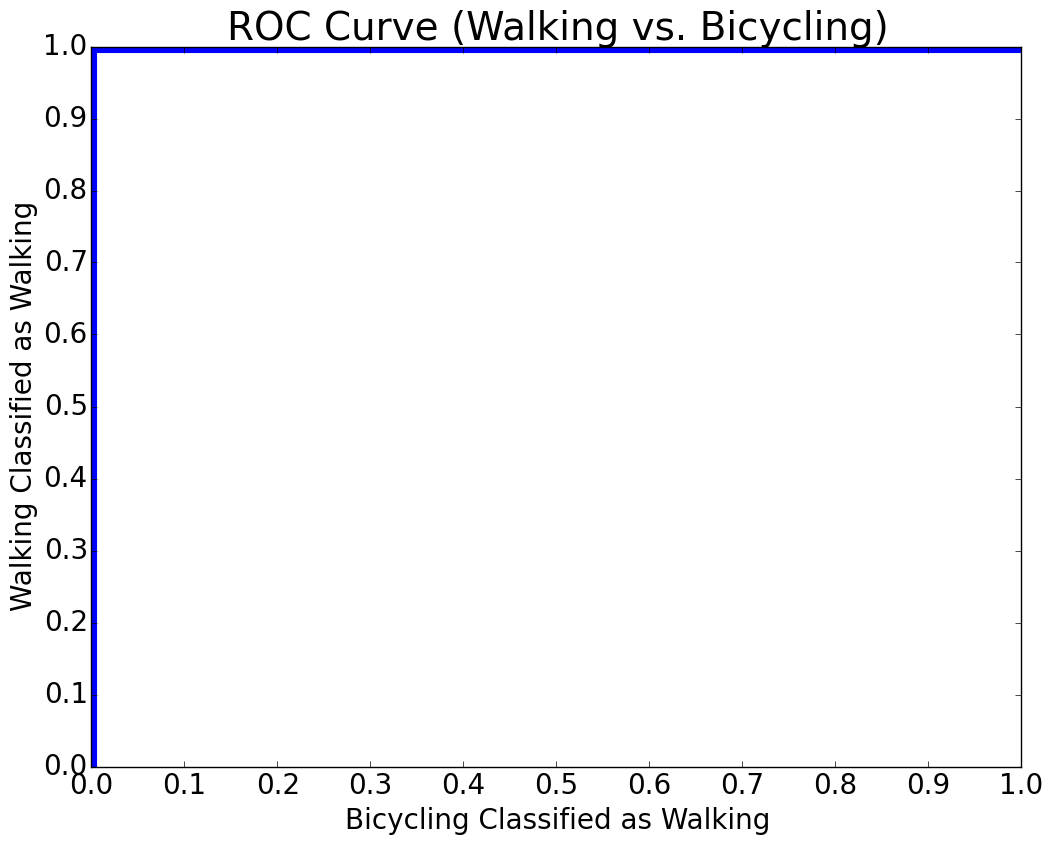
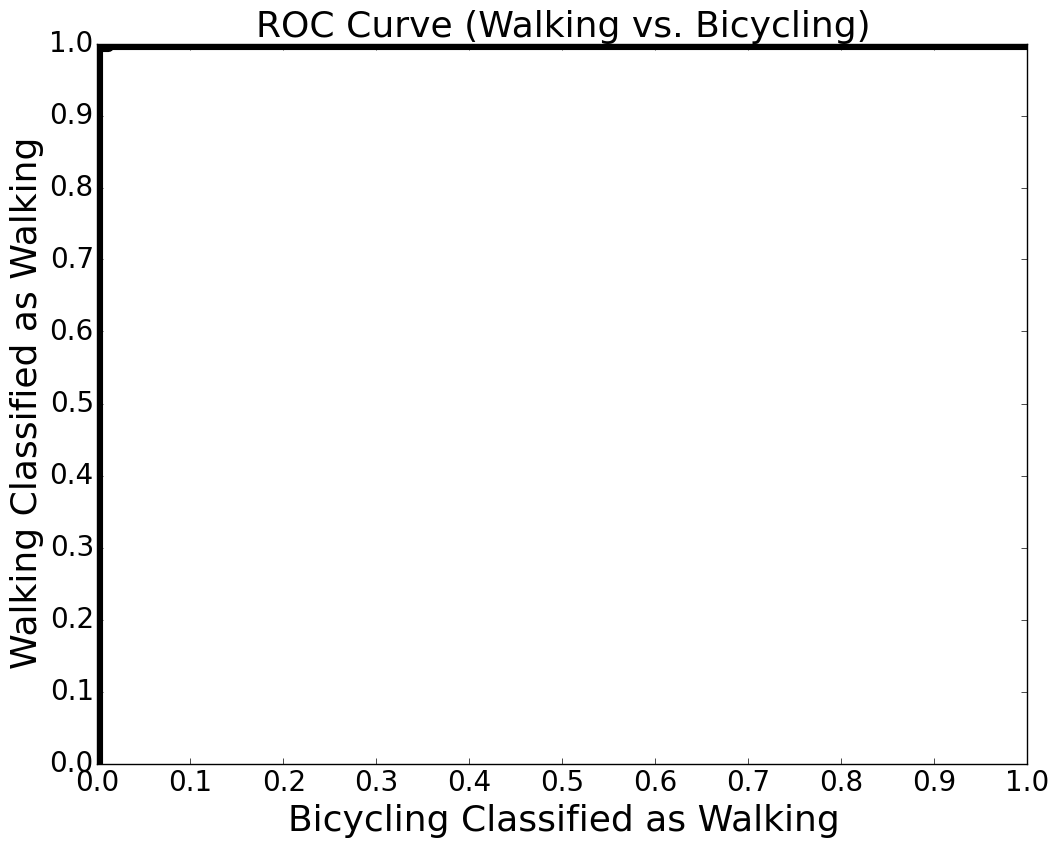
Updated what is currently in figure 1

Changed region(s): [[0.0, 0.0, 1.0, 0.9846]]

diff --git a/notes/paper/paper.tex b/notes/paper/paper.tex
@@ -1,6 +1,8 @@
 \documentclass[journal]{IEEEtran}
 \usepackage{blindtext}
 \usepackage{graphicx}
+\usepackage{subfig}
+\usepackage{caption}
 \usepackage[english]{babel}
 \usepackage{pinyin}
 \usepackage{natbib}
@@ -13,9 +15,9 @@
 \begin{document}
 %
 % paper title
-\title{Real-Time Application of Activity Classification from Body-Worn Accelerometers}
+\title{Real-Time Activity Classification using Body-Worn Accelerometers}
 %
-\author{Craig~Euler, C.T. Lin, Melissa Flores, Bryan, Ruben, Sidney, Steve}
+\author{Craig~Euler, C.T. Lin, Melissa~Flores, Bryan~Juarez}
 %
 % make the title area
 \maketitle
@@ -39,7 +41,7 @@ Computational resources are limited on micro-processors so we\textquotesingle ve
 Having an a priori knowledge of the activity the individual is performing is useful for many current fitness algorithms.
 These devices (Fit-Bit, Apple watch, Moov, Jawbone, etc.) usually have the individual input the activity they are performing.
 %
-\section{Activity Classification via Matched Filtering}
+\section{Activity Classification Method}
 The matched-filter method is commonly used for extracting a signal out of noisy data.
 We employ this method for identifying a user’s activity from data generated by body-worn accelerometers.
 Because the matched-filter method requires use of an existing reference template to identify the desired signal, we must develop our template from a training set.
@@ -127,22 +129,41 @@ The training process uses the same algorithm kernels as the activity classificat
 %
 \section{Matched-Filter Performance}
 %
-To demonstrate how effective the matched-filter is for classification, walking, jogging, and bicycling data has been collected from a single individual. One instance of walking data has been used to train the classifier on and a separate instance of walking data has been used for comparison. Figure \ref{ROC_walk_to_run_fig} shows the effectiveness of the classifier when comparing walking to jogging and figure \ref{ROC_walk_to_bike_fig} shows the comparison to bicycling. Because the bicycling motions are considerably different from walking relative to jogging, we would expect better performance from for bicycling.
-\begin{figure}[!tbp]
-\RawFloats
+To demonstrate how effective the matched-filter is for classification, walking, jogging, and bicycling data has been collected from a single individual. One instance of walking data has been used to train the classifier on and a separate instance of walking data has been used for comparison. Figure \ref{ROC_walk_to_fig} shows the effectiveness of the classifier when comparing walking to jogging and figure \ref{ROC_walk_to_fig} shows the comparison to bicycling. Because the bicycling motions are considerably different from walking relative to jogging, we would expect better performance from for bicycling.
+%
+%\begin{figure}[!tbp]
+%\RawFloats
+%  \centering
+%     \begin{minipage}[b]{0.45\textwidth}
+%        \includegraphics[angle=0,width=\textwidth]{ROC_walk_to_run.png}
+%        \caption{\label{ROC_walk_to_run_fig}ROC curve with a downsample factor of 8}
+%     \end{minipage}
+%     \hfill
+%     \begin{minipage}[b]{0.45\textwidth}
+%     \includegraphics[angle=0,width=\textwidth]{ROC_walk_to_bike.png}
+%        \caption{\label{ROC_walk_to_bike_fig}ROC curve with a downsample factor of 8}
+%     \end{minipage}
+%\caption{\label{ROC_walk_to_bike_fig}ROC curve with a downsample factor of 8}
+%\end{figure}
+%
+\begin{figure}[!ht]
+  %\captionsetup[subfigure]{labelformat=empty}
   \centering
-     \begin{minipage}[b]{0.45\textwidth}
-        \includegraphics[angle=0,width=\textwidth]{ROC_walk_to_run.png}
-        \caption{\label{ROC_walk_to_run_fig}ROC curve with a downsample factor of 8}
-     \end{minipage}
-     \hfill
-     \begin{minipage}[b]{0.45\textwidth}
-     \includegraphics[angle=0,width=\textwidth]{ROC_walk_to_bike.png}
-        \caption{\label{ROC_walk_to_bike_fig}ROC curve with a downsample factor of 8}
-     \end{minipage}
+  \subfloat[]{\includegraphics[width=.45\textwidth]{fraction_threshold_walking_to_jogging.png}}
+  \quad
+  \subfloat[]{\includegraphics[width=.45\textwidth]{ROC_walk_to_run.png}}
+  \centering
+  \quad
+  \subfloat[]{\includegraphics[width=.45\textwidth]{fraction_threshold_walking_to_bicycling.png}}
+  \centering
+  \quad
+  \subfloat[]{\includegraphics[width=.45\textwidth]{ROC_walk_to_bike.png}}
+  \caption{Matched-filter performance comparing jogging and bicycling data against a reference for walking. Results produced with decimation factor of 8}
+  \label{ROC_walk_to_fig}
 \end{figure}
+%
 %\FloatBarrier
-reference to figure \ref{ROC_walk_to_run_fig}
+reference to figure \ref{ROC_walk_to_fig}
 %
 \section{Conclusion}
 conclusion text.
